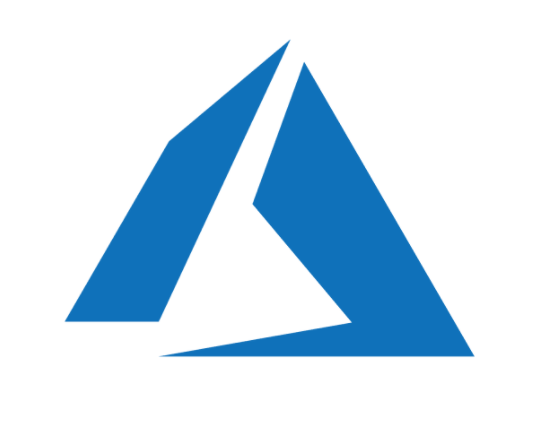
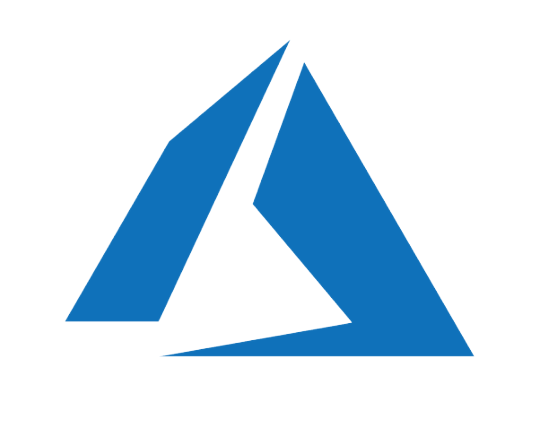
Update README.md / Added imgs without white background. (#238)
* style: icons size changed, img without white bg

* Update README.md

diff --git a/README.md b/README.md
@@ -20,60 +20,60 @@
 <center>
 <table>
   <tr>
-    <td align="center"><a href="exercises/devops/README.md"><img src="images/devops.png" width="70px;" height="75px;" alt="DevOps" /><br /><b>DevOps</b></a></td>
-    <td align="center"><a href="exercises/cicd/README.md"><img src="images/cicd.png" width="85px;" height="85px;" alt="cicd"/><br /><b>CI/CD</b></a></td>
-    <td align="center"><a href="exercises/git/README.md"><img src="images/git.png" width="80px;" height="75px;" alt="Git"/><br /><b>Git</b></a></td>
+    <td align="center"><a href="exercises/devops/README.md"><img src="images/devops.png" width="75px;" height="75px;" alt="DevOps" /><br /><b>DevOps</b></a></td>
+    <td align="center"><a href="exercises/cicd/README.md"><img src="images/cicd.png" width="75px;" height="75px;" alt="cicd"/><br /><b>CI/CD</b></a></td>
+    <td align="center"><a href="exercises/git/README.md"><img src="images/git.png" width="75px;" height="75px;" alt="Git"/><br /><b>Git</b></a></td>
     <td align="center"><a href="exercises/ansible/README.md"><img src="images/ansible.png" width="75px;" height="75px;" alt="ansible"/><br /><b>Ansible</b></a></td>
-    <td align="center"><a href="#Network"><img src="images/network.png" width="80x;" height="75px;" alt="Network"/><br /><b>Network</b></a></td>
-    <td align="center"><a href="#linux"><img src="images/linux.png" width="75x;" height="75px;" alt="Linux"/><br /><b>Linux</b></a></td>
+    <td align="center"><a href="#Network"><img src="images/network.png" width="75px;" height="75px;" alt="Network"/><br /><b>Network</b></a></td>
+    <td align="center"><a href="#linux"><img src="images/linux.png" width="75px;" height="75px;" alt="Linux"/><br /><b>Linux</b></a></td>
 
   </tr>
   <tr>
     <td align="center"><a href="exercises/software_development/README.md"><img src="images/programming.png" width="75px;" height="75px;" alt="programming"/><br /><b>Software Development</b></a></td>
-    <td align="center"><a href="https://github.com/bregman-arie/python-exercises"><img src="images/python.png" width="80px;" height="75px;" alt="Python"/><br /><b>Python</b></a></td>
+    <td align="center"><a href="https://github.com/bregman-arie/python-exercises"><img src="images/python.png" width="75px;" height="75px;" alt="Python"/><br /><b>Python</b></a></td>
     <td align="center"><a href="#go"><img src="images/Go.png" width="75px;" height="75px;" alt="go"/><br /><b>Go</b></a></td>
-    <td align="center"><a href="exercises/shell/README.md"><img src="images/bash.png" width="70px;" height="75px;" alt="Bash"/><br /><b>Shell Scripting</b></a></td>
+    <td align="center"><a href="exercises/shell/README.md"><img src="images/bash.png" width="75px;" height="75px;" alt="Bash"/><br /><b>Shell Scripting</b></a></td>
     <td align="center"><a href="exercises/kubernetes/README.md"><img src="images/kubernetes.png" width="75px;" height="75px;" alt="kubernetes"/><br /><b>Kubernetes</b></a></td>
     <td align="center"><a href="#prometheus"><img src="images/prometheus.png" width="75px;" height="75px;" alt="Prometheus"/><br /><b>Prometheus</b></a></td>
   </tr>
   <tr>
-    <td align="center"><a href="exercises/cloud/README.md"><img src="images/cloud.png" width="110px;" height="75px;" alt="Cloud"/><br /><b>Cloud</b></a></td>
-    <td align="center"><a href="exercises/aws/README.md"><img src="images/aws.png" width="75px;" height="75px;" alt="aws"/><br /><b>AWS</b></a></td>
+    <td align="center"><a href="exercises/cloud/README.md"><img src="images/cloud.png" width="75px;" height="75px;" alt="Cloud"/><br /><b>Cloud</b></a></td>
+    <td align="center"><a href="exercises/aws/README.md"><img src="images/aws.png" width="100px;" height="75px;" alt="aws"/><br /><b>AWS</b></a></td>
     <td align="center"><a href="#azure"><img src="images/azure.png" width="75px;" height="75px;" alt="azure"/><br /><b>Azure</b></a></td>
-    <td align="center"><a href="#gcp"><img src="images/googlecloud.png" width="80px;" height="75px;" alt="Google Cloud Platform"/><br /><b>Google Cloud Platform</b></a></td>
+    <td align="center"><a href="#gcp"><img src="images/googlecloud.png" width="70px;" height="70px;" alt="Google Cloud Platform"/><br /><b>Google Cloud Platform</b></a></td>
     <td align="center"><a href="#openstack"><img src="images/openstack.png" width="75px;" height="75px;" alt="openstack"/><br /><b>OpenStack</b></a></td>
     <td align="center"><a href="exercises/security/README.md"><img src="images/security.png" width="75px;" height="75px;" alt="security"/><br /><b>Security</b></a></td>
   </tr>
   <tr>
     <td align="center"><a href="#operating-system"><img src="images/os.png" width="75px;" height="75px;" alt="Operating System"/><br /><b>Operating System</b></a></td>
     <td align="center"><a href="#monitoring"><img src="images/monitoring.png" width="75px;" height="75px;" alt="Monitoring"/><br /><b>Monitoring</b></a></td>
-    <td align="center"><a href="#elastic"><img src="images/elastic.png" width="110px;" height="75px;" alt="Elastic"/><br /><b>Elastic</b></a></td>
+    <td align="center"><a href="#elastic"><img src="images/elastic.png" width="75px;" height="75px;" alt="Elastic"/><br /><b>Elastic</b></a></td>
     <td align="center"><a href="#virtualization"><img src="images/virtualization.png" width="75px;" height="75px;" alt="Virtualization"/><br /><b>Virtualization</b></a></td>
     <td align="center"><a href="exercises/dns/README.md"><img src="images/dns.png" width="75px;" height="75px;" alt="DNS"/><br /><b>DNS</b></a></td>
-    <td align="center"><a href="#Misc"><img src="images/general.png" width="110px;" height="75px;" alt="Misc"/><br /><b>Misc</b></a></td>
+    <td align="center"><a href="#Misc"><img src="images/general.png" width="75px;" height="75px;" alt="Misc"/><br /><b>Misc</b></a></td>
   </tr>
   <tr>
     <td align="center"><a href="#testing"><img src="images/testing.png" width="75px;" height="75px;" alt="Testing"/><br /><b>Testing</b></a></td>
     <td align="center"><a href="#databases"><img src="images/databases.png" width="75px;" height="75px;" alt="Databases"/><br /><b>Databases</b></a></td>
-    <td align="center"><a href="#regex"><img src="images/regex.png" width="75ph;" height="75px;" alt="RegEx"/><br /><b>Regex</b></a></td>
-    <td align="center"><a href="#system-design"><img src="images/design.png" width="110px;" height="75px;" alt="Design"/><br /><b>System Design</b></a></td>
-    <td align="center"><a href="#hardware"><img src="images/hardware.png" width="110px;" height="75px;" alt="Hardware"/><br /><b>Hardware</b></a></td>
-    <td align="center"><a href="#big-data"><img src="images/big-data.png" width="110px;" height="75px;" alt="Big Data"/><br /><b>Big Data</b></a></td>
+    <td align="center"><a href="#regex"><img src="images/regex.png" width="75px;" height="75px;" alt="RegEx"/><br /><b>Regex</b></a></td>
+    <td align="center"><a href="#system-design"><img src="images/design.png" width="75px;" height="75px;" alt="Design"/><br /><b>System Design</b></a></td>
+    <td align="center"><a href="#hardware"><img src="images/hardware.png" width="75px;" height="75px;" alt="Hardware"/><br /><b>Hardware</b></a></td>
+    <td align="center"><a href="#big-data"><img src="images/big-data.png" width="75px;" height="75px;" alt="Big Data"/><br /><b>Big Data</b></a></td>
   </tr>
   <tr>
     <td align="center"><a href="#certificates"><img src="images/certificates.png" width="75px;" height="75px;" alt="Certificates"/><br /><b>Certificates</b></a></td>
-    <td align="center"><a href="exercises/containers/README.md"><img src="images/containers.png" width="70px;" height="75px;" alt="Containers"/><br /><b>Containers</b></a></td>
+    <td align="center"><a href="exercises/containers/README.md"><img src="images/containers.png" width="75px;" height="75px;" alt="Containers"/><br /><b>Containers</b></a></td>
     <td align="center"><a href="#sql"><img src="images/sql.png" width="75px;" height="75px;" alt="sql"/><br /><b>SQL</b></a></td>
     <td align="center"><a href="exercises/openshift/README.md"><img src="images/openshift.png" width="75px;" height="75px;" alt="OpenShift"/><br /><b>OpenShift</b></a></td>
     <td align="center"><a href="#storage"><img src="images/storage.png" width="75px;" height="75px;" alt="Storage"/><br /><b>Storage</b></a></td>
-    <td align="center"><a href="exercises/soft_skills/README.md"><img src="images/HR.png" width="110px;" height="75px;" alt="HR"/><br /><b>Soft Skills</b></a></td>
+    <td align="center"><a href="exercises/soft_skills/README.md"><img src="images/HR.png" width="75px;" height="75px;" alt="HR"/><br /><b>Soft Skills</b></a></td>
   </tr>
   <tr>
-      <td align="center"><a href="exercises/terraform/README.md"><img src="images/terraform.png" width="70px;" height="75px;" alt="Terraform"/><br /><b>Terraform</b></a></td>
+      <td align="center"><a href="exercises/terraform/README.md"><img src="images/terraform.png" width="75px;" height="75px;" alt="Terraform"/><br /><b>Terraform</b></a></td>
       <td align="center"><a href="#mongo"><img src="images/mongo.png" width="75px;" height="75px;" alt="Mongo"/><br /><b>Mongo</b></a></td>
       <td align="center"><a href="#puppet"><img src="images/puppet.png" width="75px;" height="75px;" alt="puppet"/><br /><b>Puppet</b></a></td>
-      <td align="center"><a href="#distributed"><img src="images/distributed.png" width="110px;" height="75px;" alt="Distributed"/><br /><b>Distributed</b></a></td>
-      <td align="center"><a href="#questions-you-ask"><img src="images/you.png" width="90px;" height="75px;" alt="you"/><br /><b>Questions you can ask</b></a></td>
+      <td align="center"><a href="#distributed"><img src="images/distributed.png" width="75px;" height="75px;" alt="Distributed"/><br /><b>Distributed</b></a></td>
+      <td align="center"><a href="#questions-you-ask"><img src="images/you.png" width="75px;" height="75px;" alt="you"/><br /><b>Questions you can ask</b></a></td>
       <td align="center"><a href="exercises/perl/README.md"><img src="images/perl.png" width="75px;" height="75px;" alt="perl"/><br /><b>Perl</b></a></td>
   </tr>
 </table>
